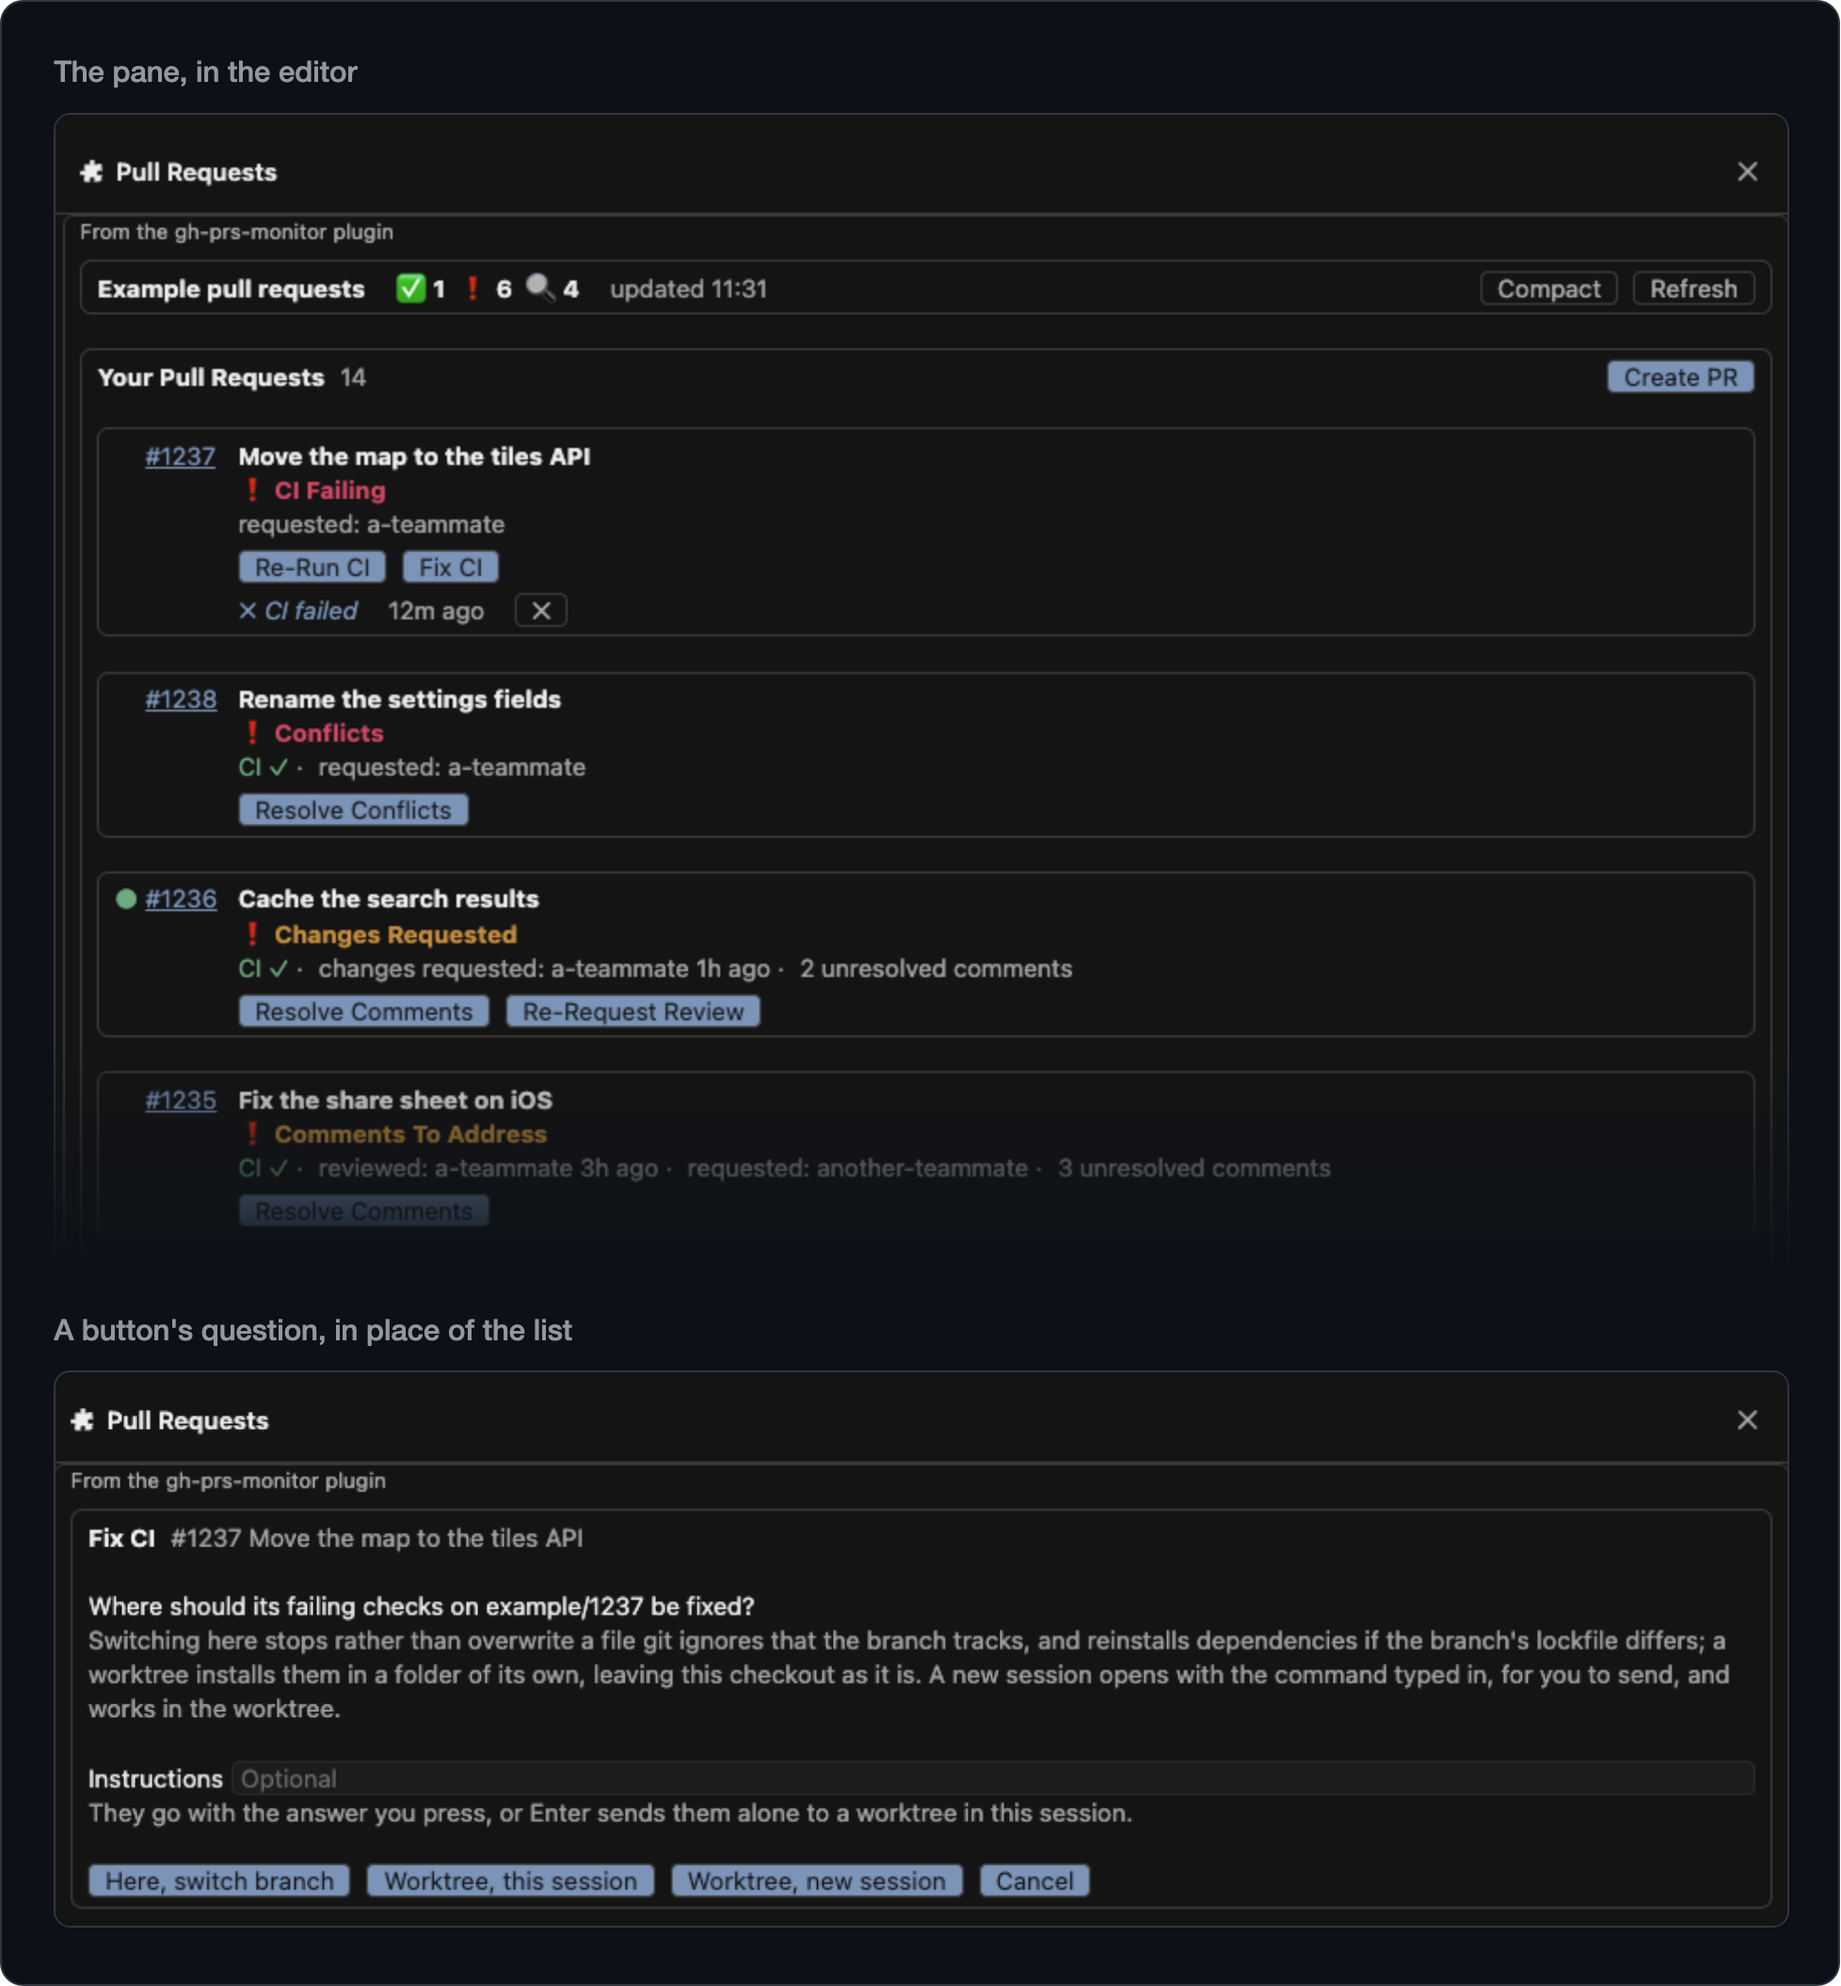
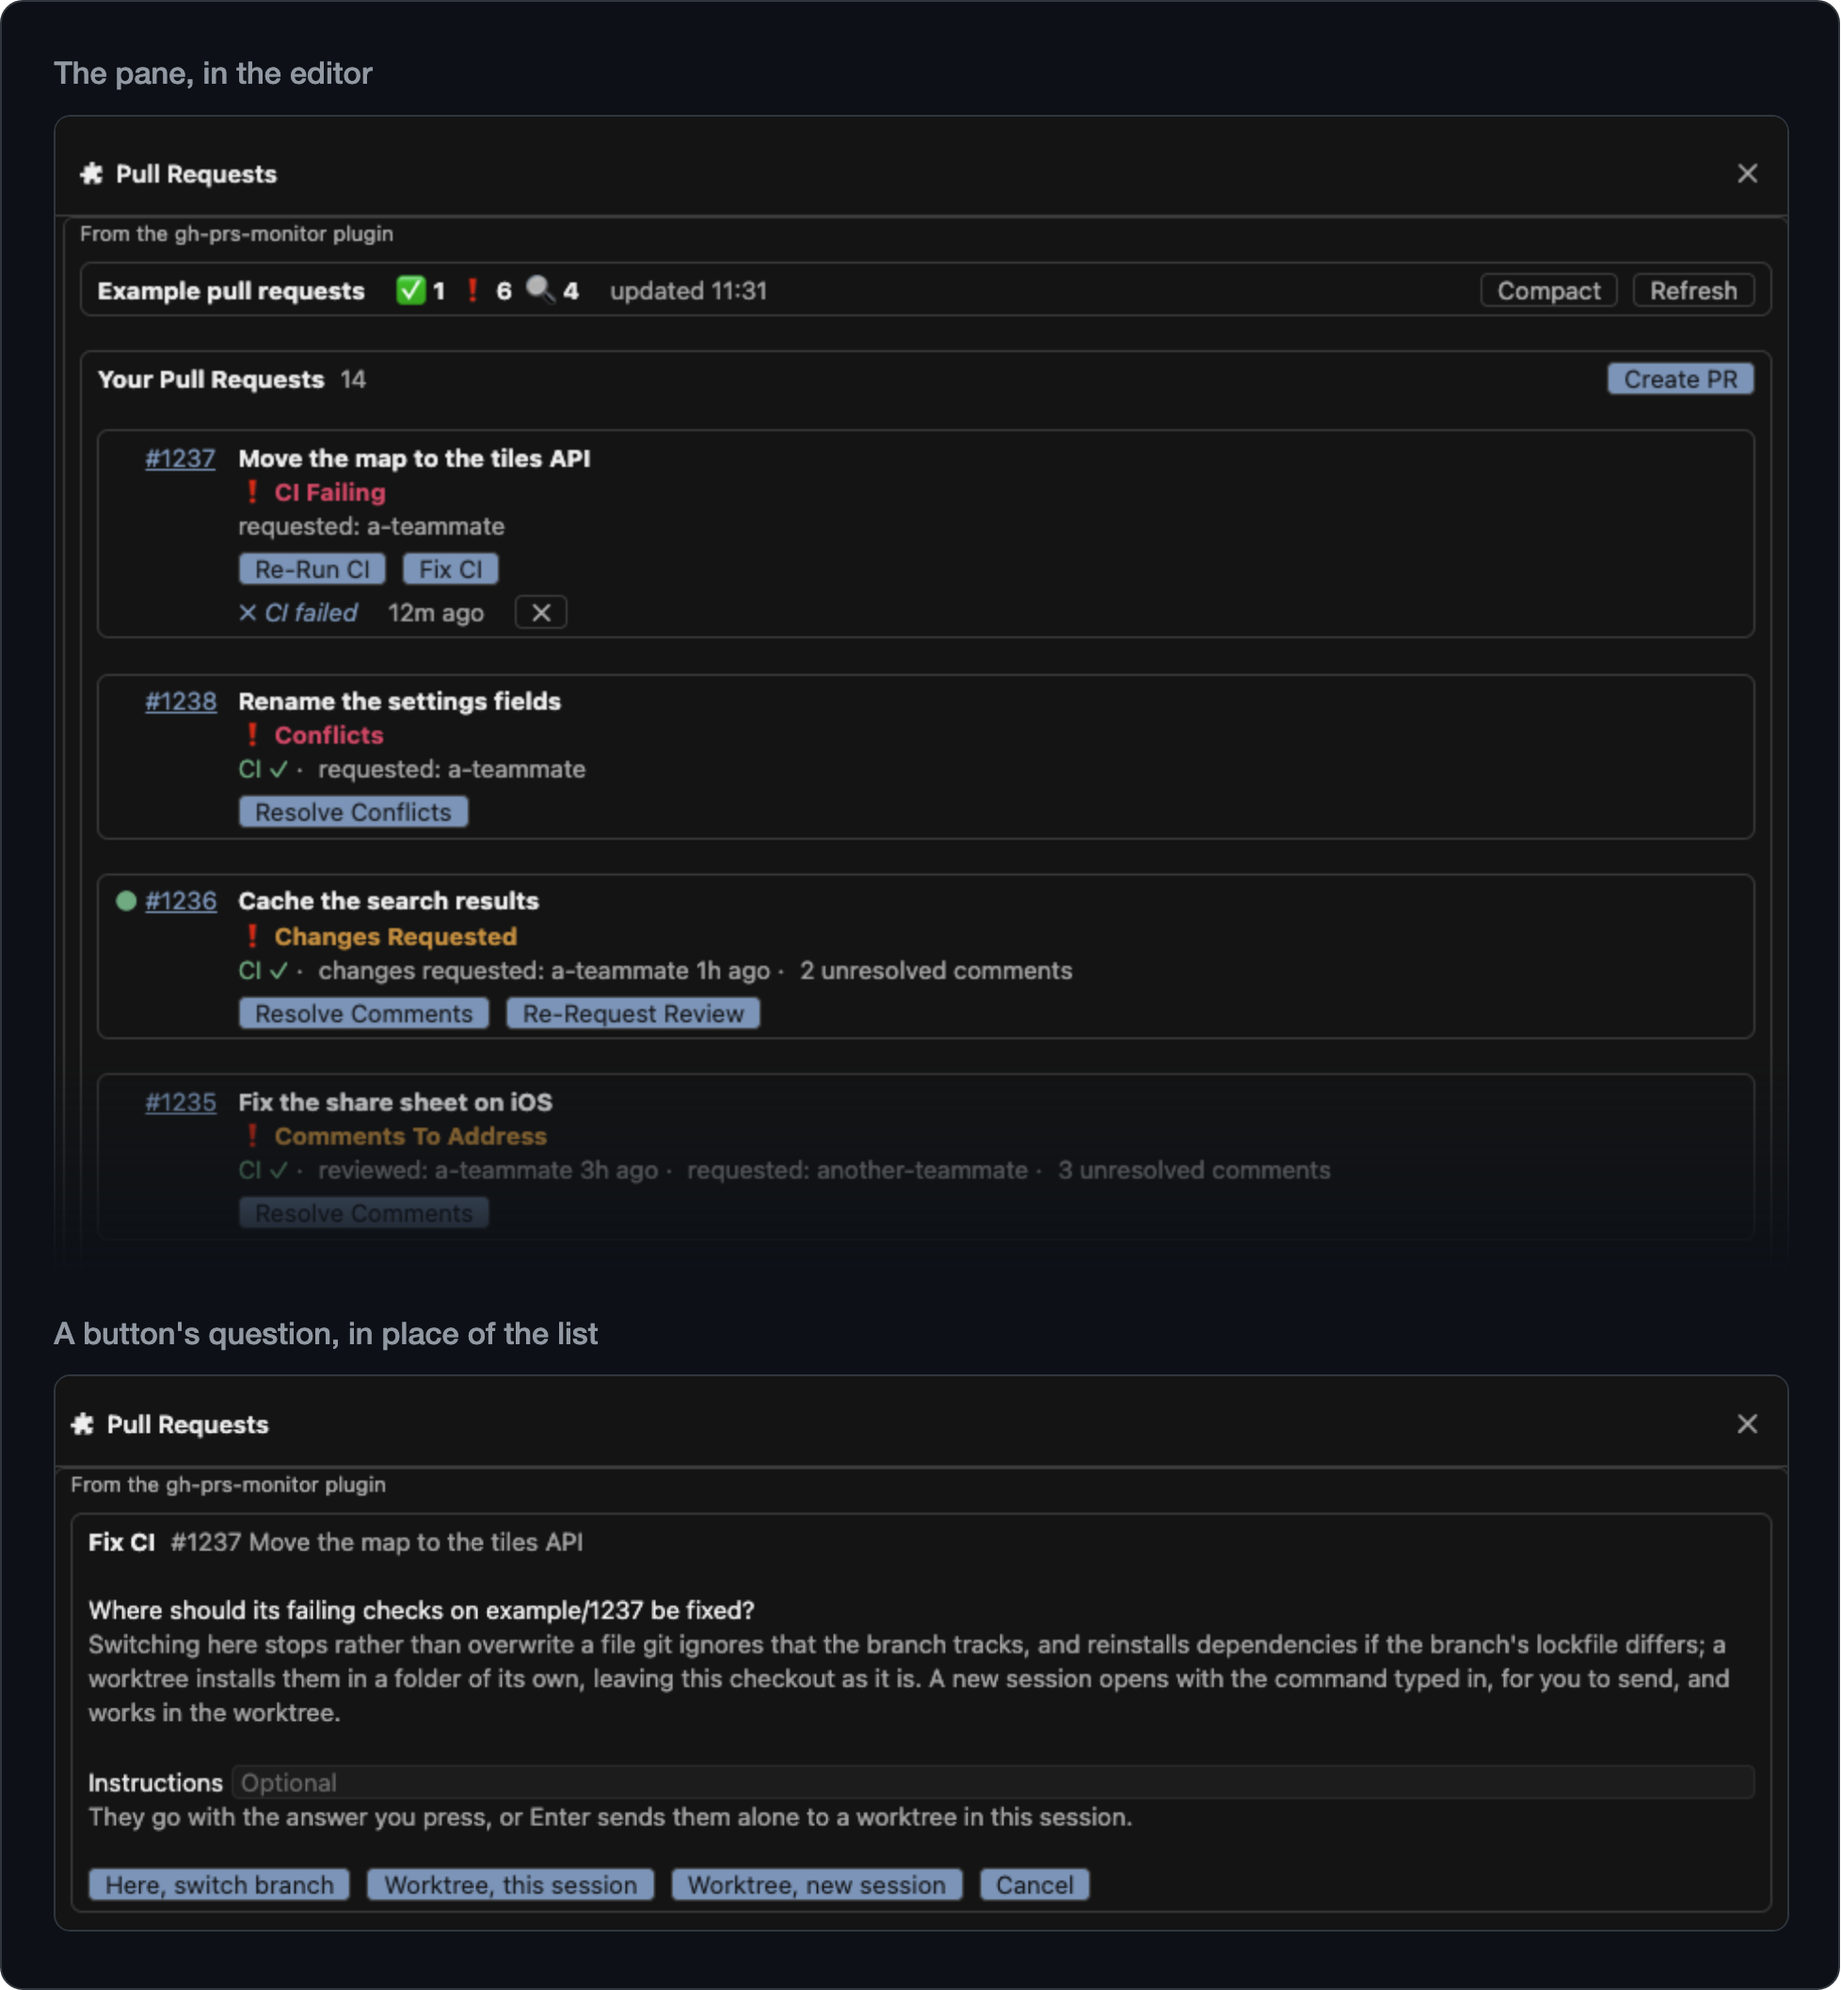
Screenshots: captions at desktop.png's 14.7px
Measured against desktop.png's caption at the same size: weight 500, 14.7px for an 880px card, not 14px. vscode.png rendered again with it.

diff --git a/maintenance/screenshots/composite.html b/maintenance/screenshots/composite.html
@@ -25,7 +25,7 @@
   h2 {
     margin: calc(20 * var(--unit)) 0 calc(11 * var(--unit));
     color: #9198a1;
-    font-size: calc(14 * var(--unit));
+    font-size: calc(14.7 * var(--unit));
     font-weight: 500;
   }
   .shot { width: var(--shot); border: 1px solid #30363d; border-radius: calc(8 * var(--unit)); overflow: hidden; }

diff --git a/maintenance/screenshots/README.md b/maintenance/screenshots/README.md
@@ -21,7 +21,7 @@ width, its width over 830px.
 | Part | Rule |
 |---|---|
 | Card | `#0d1117`, a 1px `#30363d` border, corners of 11px, 25px of space at the sides and 27px at the foot |
-| Caption | 14px, weight 500, `#9198a1`, in the system font; 20px above it, 11px below |
+| Caption | 14.7px, weight 500, `#9198a1`, in the system font; 20px above it, 11px below |
 | Panel | the screenshot at its own width, a 1px `#30363d` frame, corners of 8px |
 | A panel cut short | fades into the card over its last 108px, its frame with it |
 
